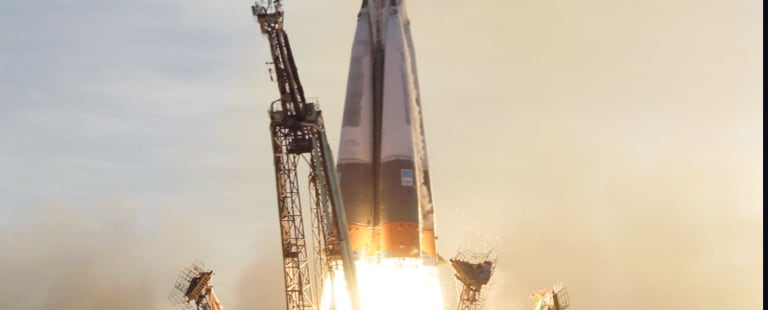
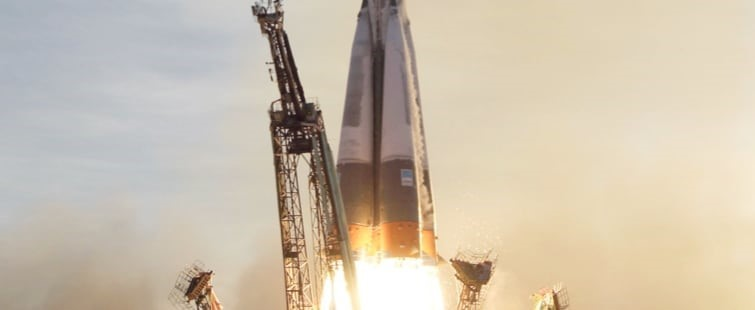
technology-page

diff --git a/css/technology.css b/css/technology.css
@@ -3,6 +3,82 @@ body{
     background-size: cover;
 }
 
+.main-heading{
+    font-size: 1.7rem;
+    text-transform: uppercase;
+    padding-left: 10vw;
+}
+
+.main-heading span{
+    font-size: 1.7rem;
+    padding-right: 1rem;
+    color: var(--second-color);
+}
+
+.container{
+    display: flex;
+    justify-content: center;
+    align-items: center;
+    padding-left: 10vw;
+}
+
+.circles{
+    display: flex;
+    flex-direction: column;
+    gap: 2rem;
+}
+
+.circle{
+    border: 1px solid white;
+    height: 4rem;
+    width: 4rem;
+    border-radius: 50%;
+    display: flex;
+    justify-content: center;
+    align-items: center;
+    font-size: 1.5rem;
+    font-family: var(--second-font);
+    cursor: pointer;
+}
+
+.bind{
+    display: flex;
+    align-items: center;
+}
+
+.content{
+    padding-left:5vw;
+} 
+
+.heading{
+    text-transform: uppercase;
+    letter-spacing: 3px;
+    color: var(--second-color);
+}
+
+.name{
+    font-family: var(--second-font);
+    font-size: 2.8rem;
+    text-transform: uppercase;
+    padding-top: 0.5rem;
+    padding-bottom: 1rem;
+}
+
+.text-content{
+    width: 65%;
+    line-height: 1.5rem;
+    color: var(--second-color);
+}
+
+.portrait-img{
+    height: 60%;
+    width: 40%;
+}
+
+.landscape-img{
+    display: none;
+}
+
 
 
 /*```````````````TABLET DESIGN````````````````*/
@@ -13,9 +89,61 @@ body{
     background-size: cover;
 }
 
+.main-heading{
+    padding-left: 3.5rem;
+    font-size: 1.3rem;
+}
+
+.main-heading span {
+    font-size: 1.3rem;
+}
+
+.container{
+    flex-direction: column-reverse;
+    justify-content: center;
+    padding: 0;
+    text-align: center;
+}
+
+.bind{
+    flex-direction: column;
+}
+
+.content{
+    padding: 0;
+}
+
+.name{ 
+    font-size: 2.4rem;
+    padding-block: 0.5rem;
+}
+
+.text-content{
+    width: 100%;
+    padding: 0;
+    padding-inline: 10% ;
+    font-size: 17px;
+}
+
+.circles{
+    flex-direction: row;
+    justify-content: center;
+    padding-bottom: 1.5rem;
+}
+
+.portrait-img{
+    display: none;
+}
+
+.landscape-img{
+    display: block;
+    width: 100vw;
+    height: 310px;
+    padding-block: 2rem;
 }
 
 
+}
 
 /*```````````````MOBILE DESIGN````````````````*/
 
@@ -24,6 +152,37 @@ body{
 body{
     background: url(/assets/technology/background-technology-mobile.jpg) no-repeat center;
     background-size: cover;
+}
+
+.main-heading{
+    padding-left: 1.5rem;
+}
+
+.text-content{
+    padding-inline: 5% ;
+}
+
+.circles{
+    padding-bottom: 1rem;
+}
+
+.circle{ 
+    height: 3rem;
+    width: 3rem;
+    font-size: 1.1rem;
+}
+
+.name{
+    font-size: 2rem;
+}
+
+.text-content{
+    font-size: 15px;
+    line-height: 1.2rem;
+}
+
+.landscape-img{
+    padding-block: 1.2rem;
 }
 
 }

diff --git a/technology.html b/technology.html
@@ -31,27 +31,34 @@
 
   </div>
 
- <!--
+  <div class="main-heading"><span>03</span>Space launch 101</div>
+
   <div class="container">
-    <div class="content">
-      <div class="text-content"> So, you want to travel to</div>
 
-      <div class="heading">Space</div>
-
-      <div class="text-content1">
-        Let’s face it; if you want to go to space, you might as well genuinely go to 
-        outer space and not hover kind of on the edge of it. Well sit back, and relax 
-        because we’ll give you a truly out of this world experience!
+    <div class="bind">
+      <div class="circles">
+        <div class="circle">1</div>
+        <div class="circle">2</div>
+        <div class="circle">3</div>
+      </div>
+  
+      <div class="content">
+        <div class="heading"> The terminology...</div>
+        <div class="name">Launch vehicle</div>
+        <div class="text-content">
+          A launch vehicle or carrier rocket is a rocket-propelled vehicle used to carry a 
+          payload from Earth's surface to space, usually to Earth orbit or beyond. Our 
+          WEB-X carrier rocket is the most powerful in operation. Standing 150 metres tall, 
+          it's quite an awe-inspiring sight on the launch pad!
+        </div>
       </div>
     </div>
 
-    <div class="explore">Explore</div>
+    <img class="portrait-img" src="/assets/technology/image-launch-vehicle-portrait.jpg" alt="">
+    <img class="landscape-img" src="/assets/technology/image-launch-vehicle-landscape.jpg" alt="">
 
- -->
+  </div>  
 
-
-  </div>
-
-  <script src="js/header.js"></script>
+<script src="js/header.js"></script>
 </body>
 </html>
